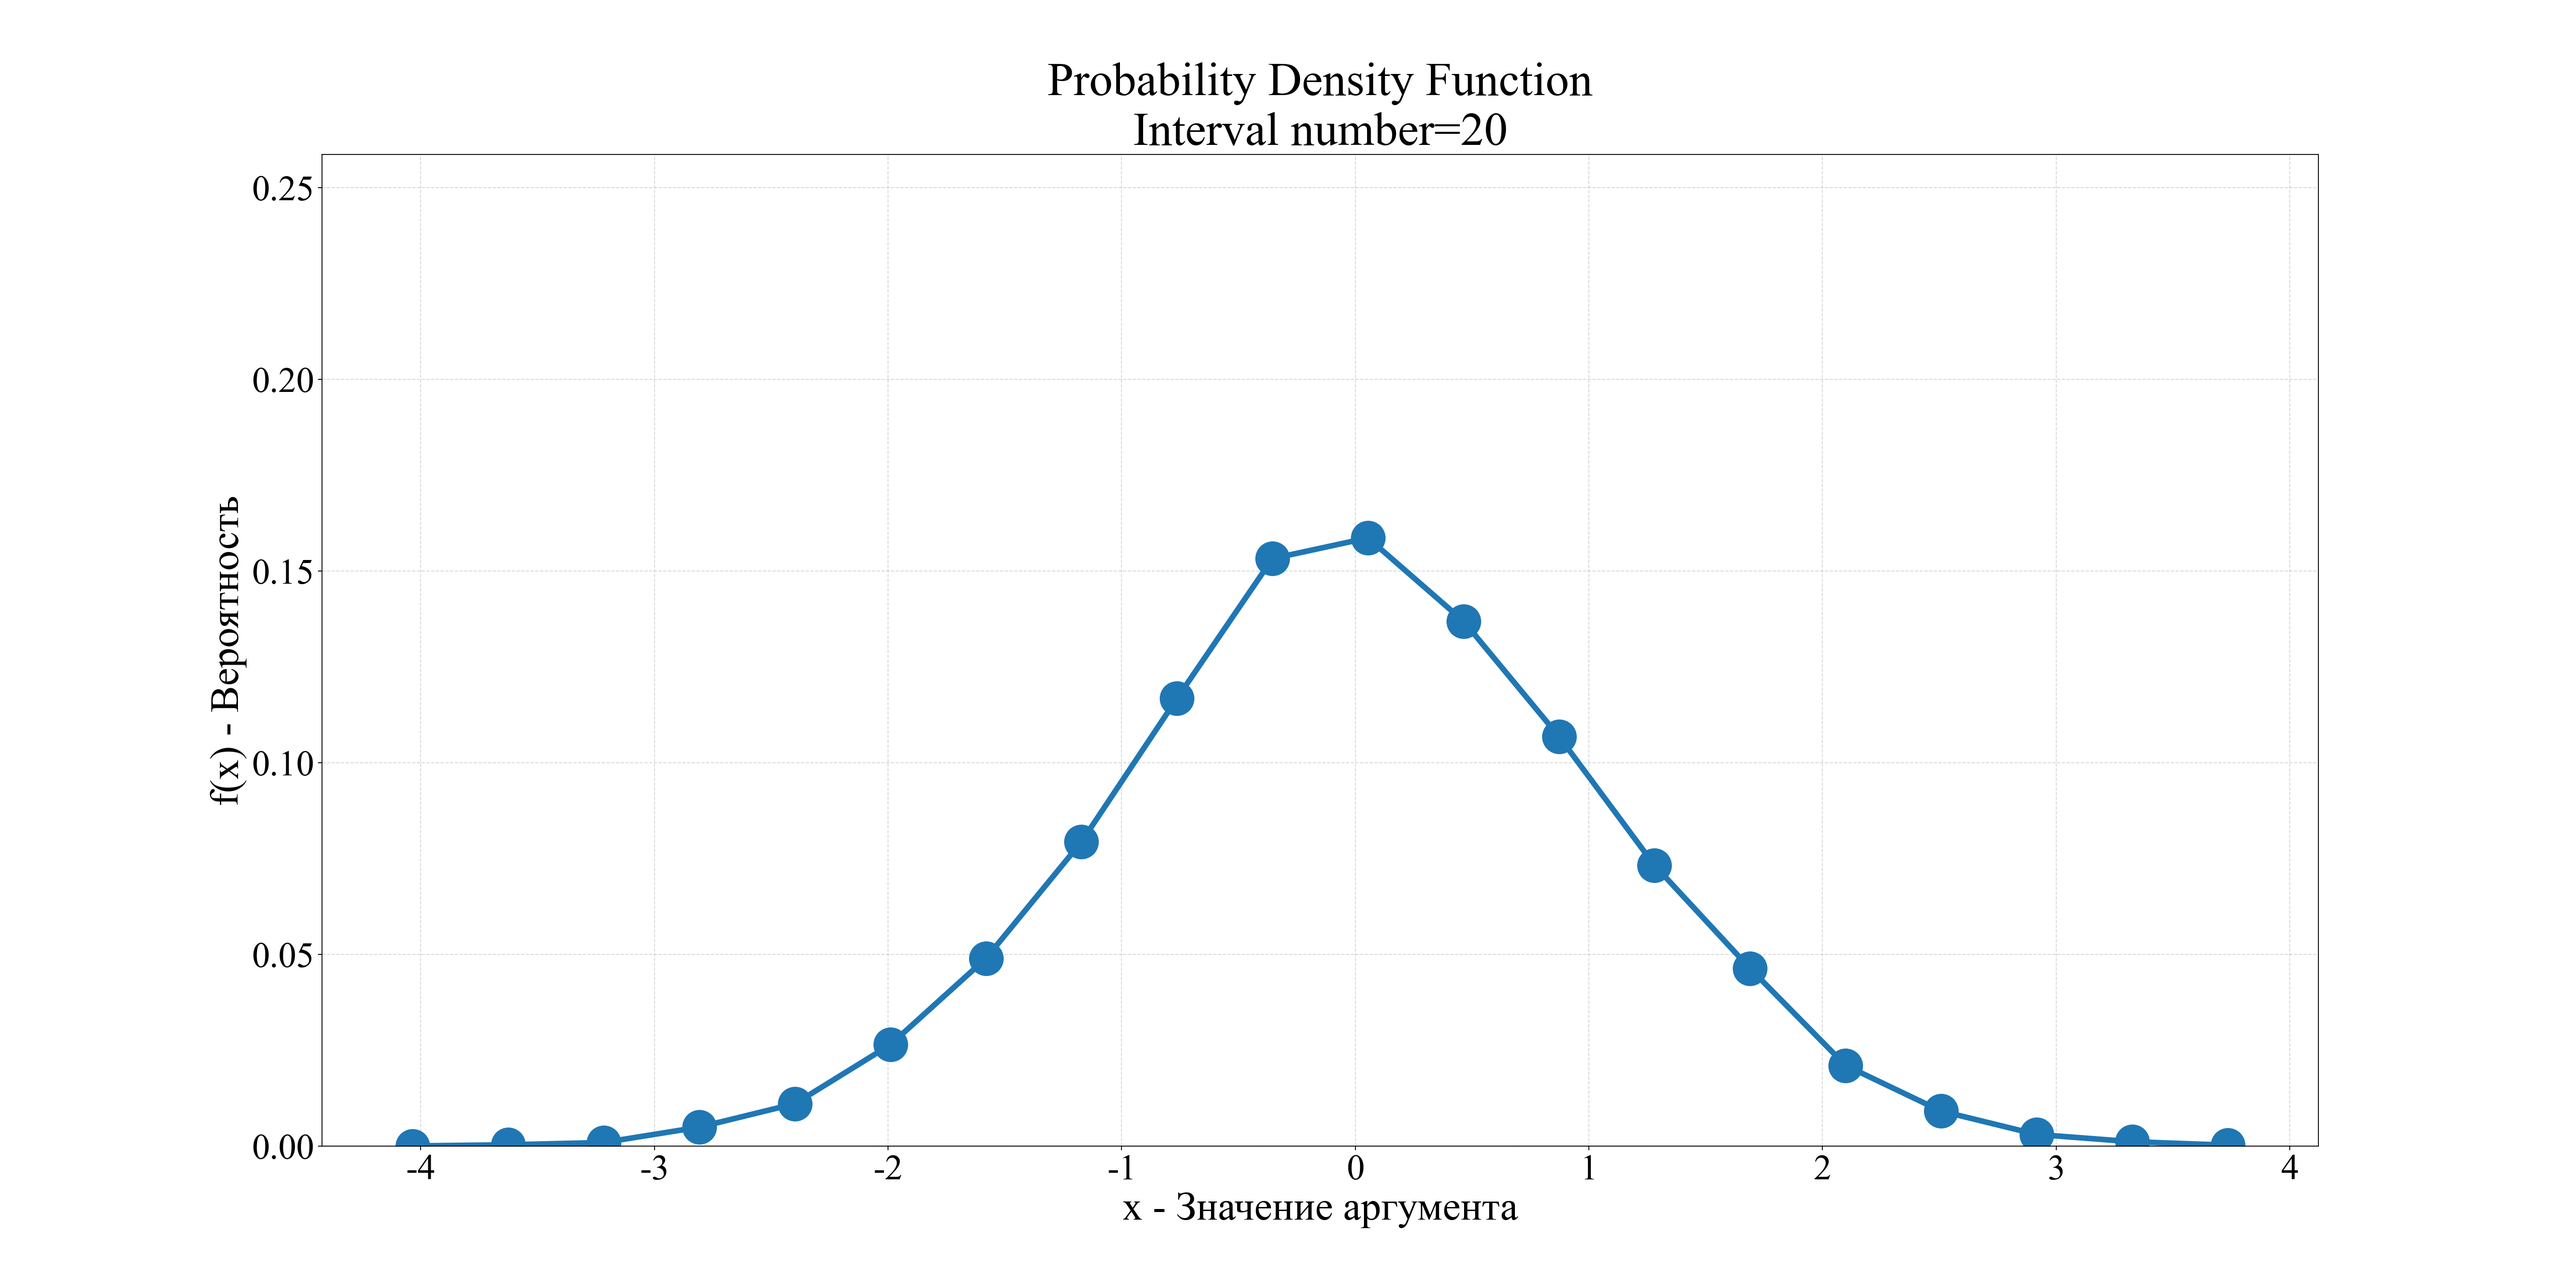
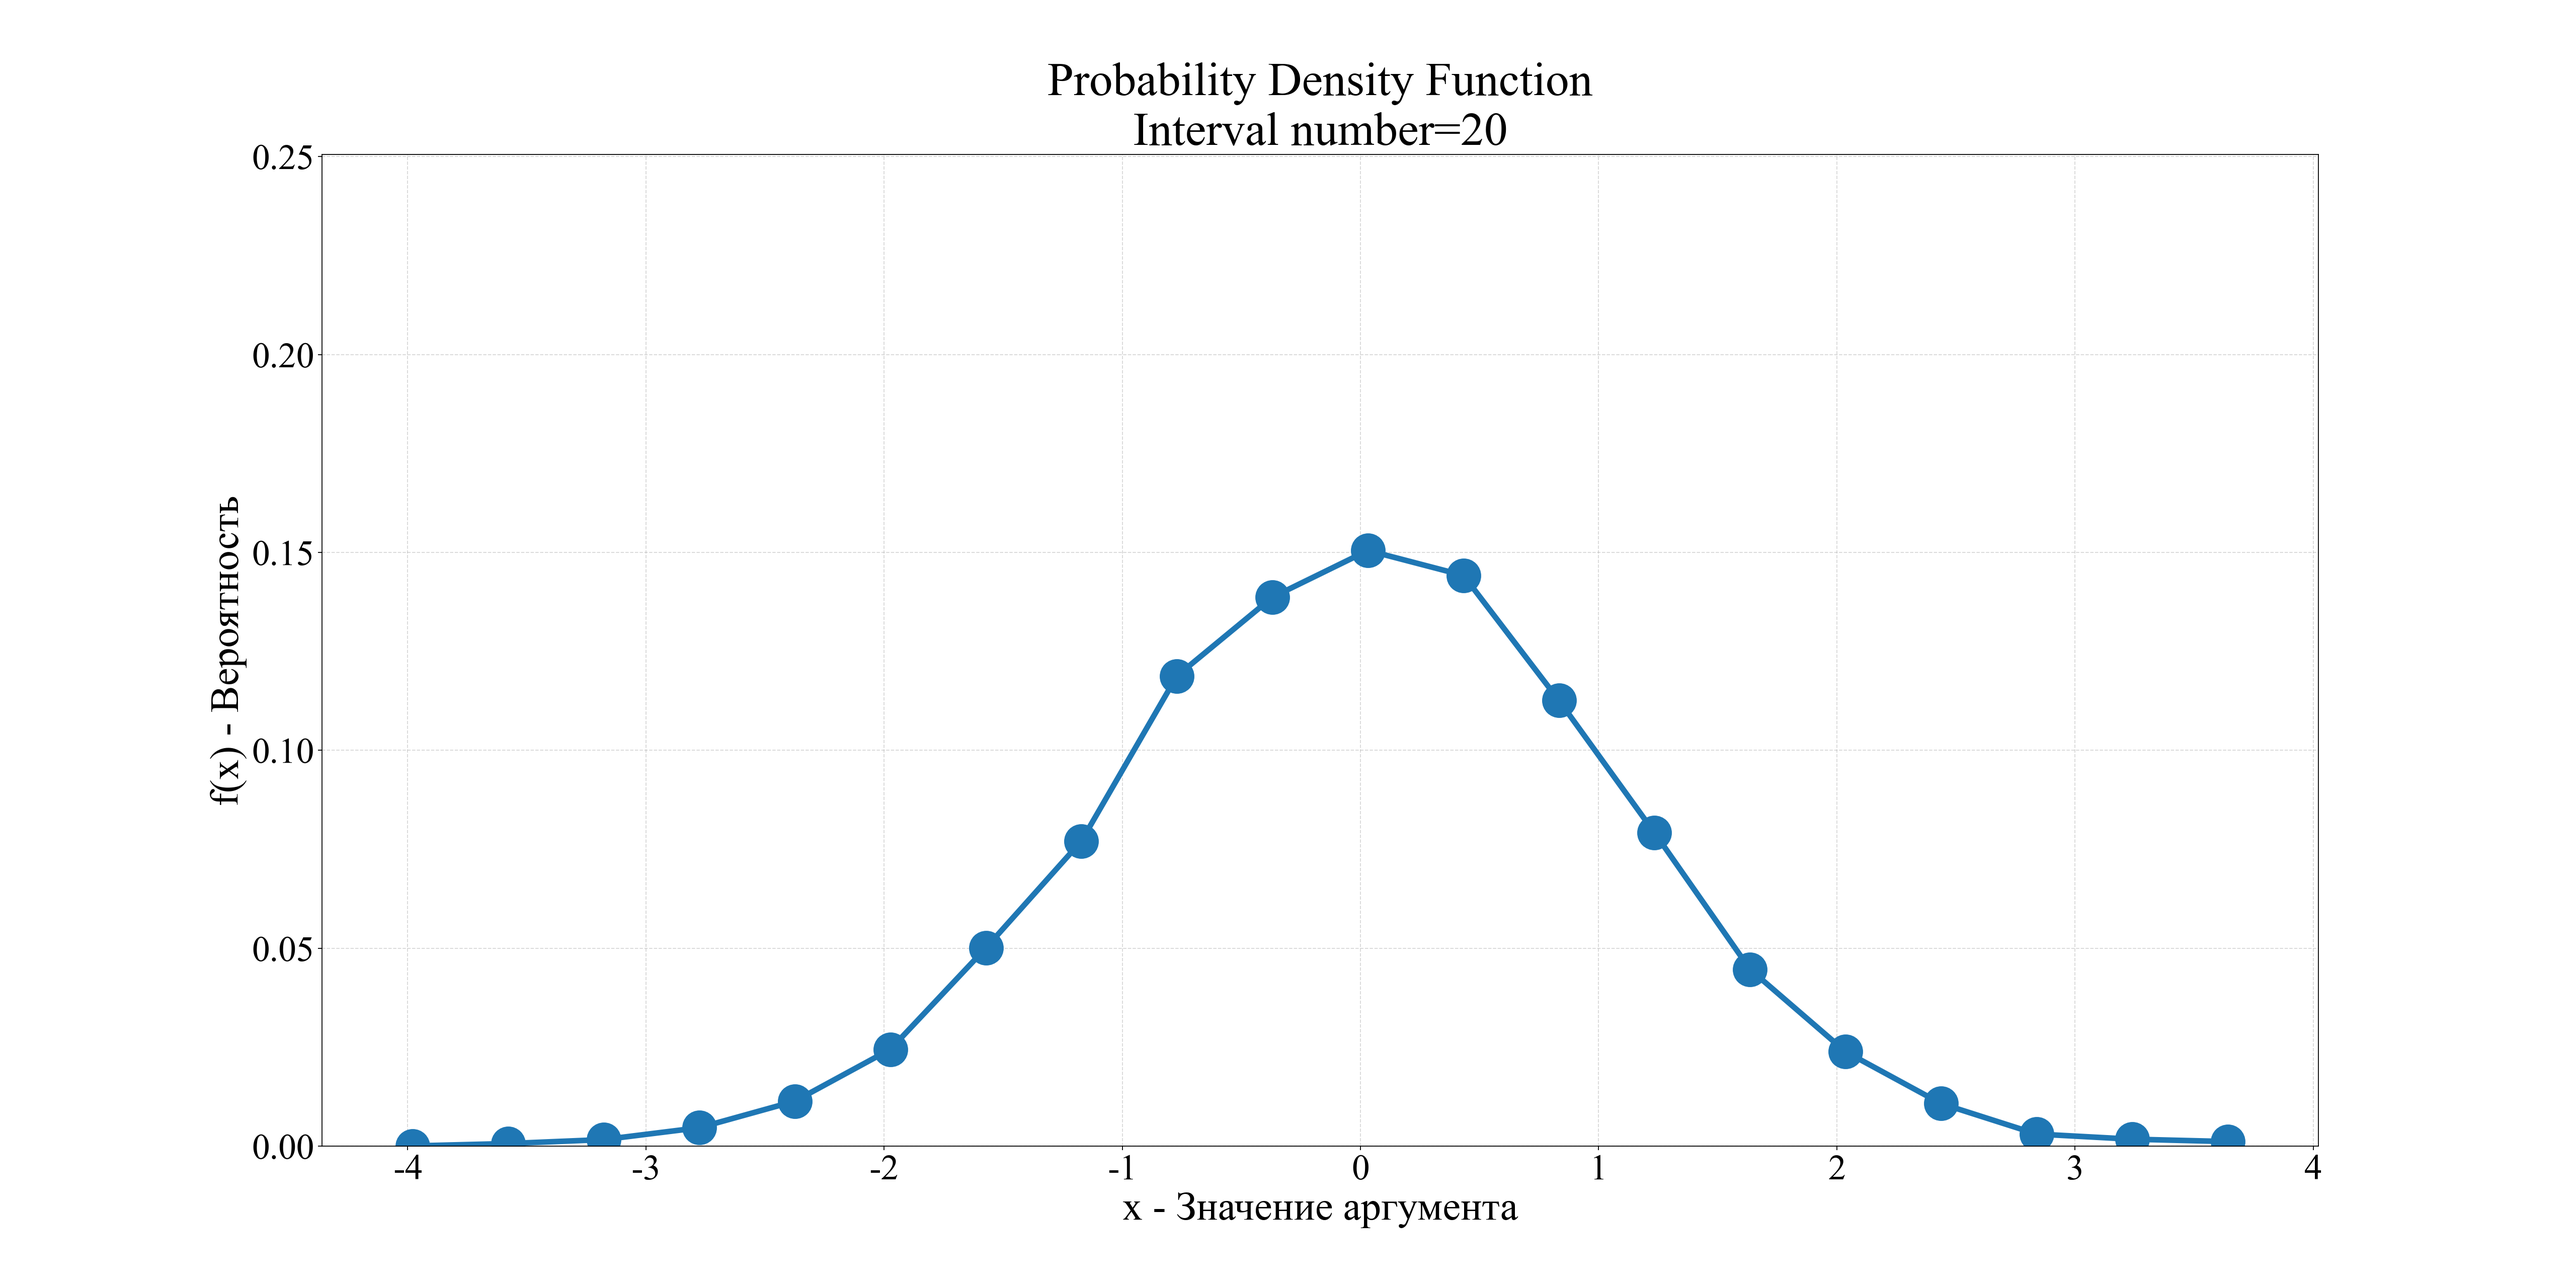
修改 算法 增加 指数分布的绘制

diff --git a/004 - lab3/main.py b/004 - lab3/main.py
@@ -204,16 +204,55 @@ def normal_distribution(arr_normal: np.ndarray, img_save_fold: str):
     return
 
 
+def exponential_distribution(arr_exp: np.ndarray, img_save_fold: str):
+    """
+    CN：指数分布
+    EN：Exponential distribution
+    RU：Экспоненциальное распределение
+    :param arr_exp: 具有正态分布的 numpy.ndarry
+    :param img_save_fold: 图形存储的【文件夹】
+    :return: None
+    """
+    M = arr_exp.mean()
+    D = arr_exp.var()
+
+    print('>' * 50, '\n',
+          '【2.3】Экспоненциальное распределение:\n',
+          '\tM= ', M, '\n',
+          '\tD= ', D, '\n')
+
+    arr_cdf = st_method.get_cdf(arr_exp)
+    st_method.plot_cdf(cdf_ndarry=arr_cdf,
+                       kind='plot',
+                       x_tick_min=1,
+                       x_tick_max=arr_exp.max(),
+                       save_path=img_save_fold + 'cdf_' + arr_cdf.size.__str__() + '.png')
+
+    cut_num = 21
+    arr_pdf = st_method.get_pdf(arr_exp, cut_num=cut_num)
+    st_method.plot_pdf(pdf_ndarry=arr_pdf,
+                       kind='plot',
+                       x_tick_min=arr_exp.min(),
+                       x_tick_max=arr_exp.max(),
+                       y_tick_min=0,
+                       y_tick_max=arr_pdf.max() + 0.1,
+                       cut_num=cut_num,
+                       save_path=img_save_fold + 'pdf_' + (arr_pdf.size + 1).__str__() + '.png')
+
+    print('-' * 50, '\n')
+    return
 
 if __name__ == '__main__':
     # 【2.1】РАВНОМЕРНОЕ РАСПРЕДЕЛЕНИЕ (дискретное)
     # uniform_distribution()
 
     # 【2.2.1】Нормальное распределение
-    normal_distribution(irandom.irnnrm_1(size=10000), './result/【2.2.1】Нормальное распределение/')
-    # normal_distribution(np.random.standard_normal(size=10000), './result/【2.2.1】Нормальное распределение/')
+    # normal_distribution(irandom.irnnrm_1(size=10000), './result/【2.2.1】Нормальное распределение/')
 
     # 【2.2.2】Нормальное распределение
     # normal_distribution(irandom.irnnrm_1(size=10000), './result/【2.2.2】Нормальное распределение/')
+
+    # 【2.3】Экспоненциальное распределение
+    exponential_distribution(irandom.irnexp(beta=1, size=10000), './result/【2.3】Экспоненциальное распределение/')
 
     pass

diff --git a/004 - lab3/irandom.py b/004 - lab3/irandom.py
@@ -129,7 +129,7 @@ def irngeo_3(p: float, size: int) -> np.ndarray:
 
     for i in range(size):
         i_uniform = np.random.uniform(low=0, high=1)
-        j = round(math.log10(i_uniform) / math.log10(1 - p)) + 1
+        j = round(math.log(i_uniform) / math.log(1 - p)) + 1
         arr_irngeo.append(j)
 
     return np.array(arr_irngeo)
@@ -250,7 +250,7 @@ def irnexp(beta: int, size: int) -> np.ndarray:
 
     for i in range(size):
         i_uniform = np.random.uniform(low=0, high=1, size=1)
-        var = -beta * math.log10(i_uniform)
+        var = -beta * math.log(i_uniform)
         arr_irnexp.append(var)
 
     return np.array(arr_irnexp)

diff --git a/002 - lab2/irandom.py b/002 - lab2/irandom.py
@@ -128,7 +128,7 @@ def irngeo_3(p: float, size: int) -> np.ndarray:
 
     for i in range(size):
         i_uniform = np.random.uniform(low=0, high=1)
-        j = round(math.log10(i_uniform) / math.log10(1 - p)) + 1
+        j = round(math.log(i_uniform) / math.log(1 - p)) + 1
         arr_irngeo.append(j)
 
     return np.array(arr_irngeo)
